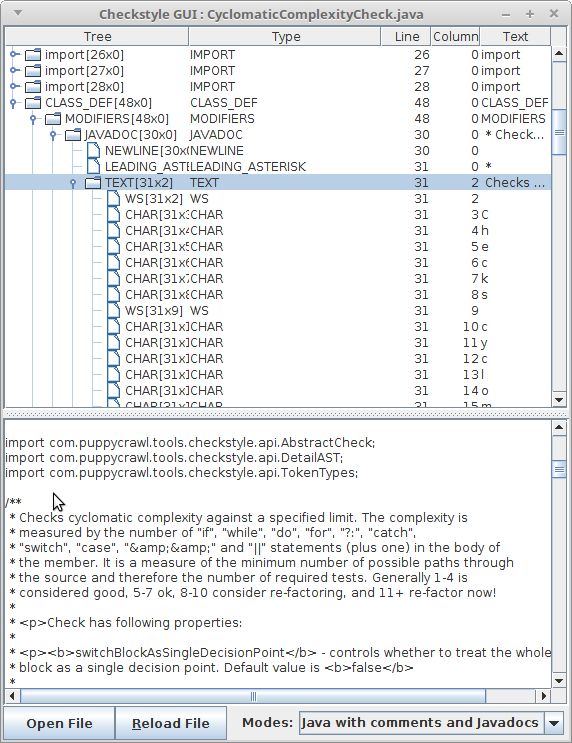
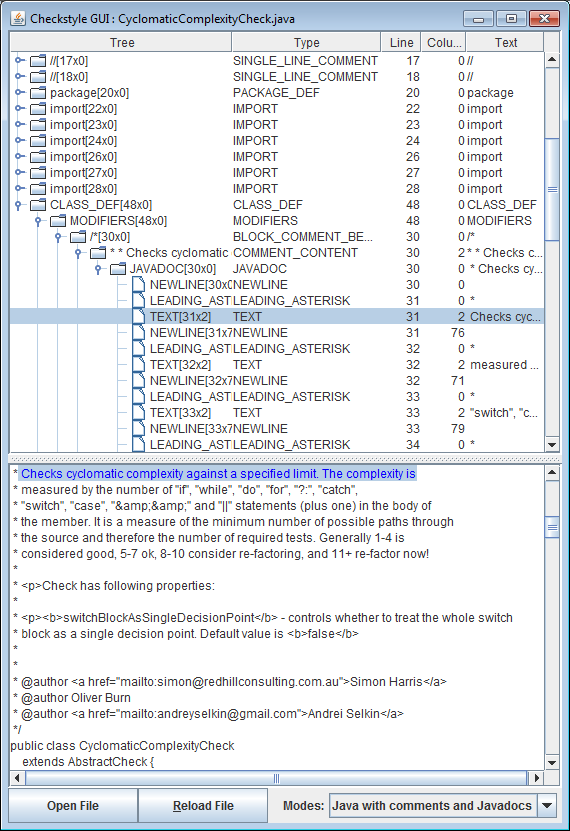
Issue #3170: delete children from javadoc TEXT

diff --git a/src/main/java/com/puppycrawl/tools/checkstyle/checks/javadoc/JavadocParagraphCheck.java b/src/main/java/com/puppycrawl/tools/checkstyle/checks/javadoc/JavadocParagraphCheck.java
@@ -151,7 +151,8 @@ public class JavadocParagraphCheck extends AbstractJavadocCheck {
      */
     private void checkEmptyLine(DetailNode newline) {
         final DetailNode nearestToken = getNearestNode(newline);
-        if (!isLastEmptyLine(newline) && nearestToken.getChildren().length > 1) {
+        if (!isLastEmptyLine(newline) && nearestToken.getType() == JavadocTokenTypes.TEXT
+                && !nearestToken.getText().trim().isEmpty()) {
             log(newline.getLineNumber(), MSG_TAG_AFTER);
         }
     }
@@ -199,7 +200,7 @@ public class JavadocParagraphCheck extends AbstractJavadocCheck {
             return false;
         }
         if (previousSibling.getType() == JavadocTokenTypes.TEXT
-                && previousSibling.getChildren().length == 1) {
+                && previousSibling.getText().trim().isEmpty()) {
             previousSibling = JavadocUtils.getPreviousSibling(previousSibling);
         }
         return previousSibling != null
@@ -215,7 +216,7 @@ public class JavadocParagraphCheck extends AbstractJavadocCheck {
         DetailNode previousNode = JavadocUtils.getPreviousSibling(paragraphTag);
         while (previousNode != null) {
             if (previousNode.getType() == JavadocTokenTypes.TEXT
-                    && previousNode.getChildren().length > 1
+                    && !previousNode.getText().trim().isEmpty()
                 || previousNode.getType() != JavadocTokenTypes.LEADING_ASTERISK
                     && previousNode.getType() != JavadocTokenTypes.NEWLINE
                     && previousNode.getType() != JavadocTokenTypes.TEXT) {
@@ -252,7 +253,7 @@ public class JavadocParagraphCheck extends AbstractJavadocCheck {
         DetailNode nextNode = JavadocUtils.getNextSibling(newLine);
         while (nextNode != null && nextNode.getType() != JavadocTokenTypes.JAVADOC_TAG) {
             if (nextNode.getType() == JavadocTokenTypes.TEXT
-                    && nextNode.getChildren().length > 1
+                    && !nextNode.getText().trim().isEmpty()
                     || nextNode.getType() == JavadocTokenTypes.HTML_ELEMENT) {
                 return false;
             }

diff --git a/src/main/java/com/puppycrawl/tools/checkstyle/checks/javadoc/SummaryJavadocCheck.java b/src/main/java/com/puppycrawl/tools/checkstyle/checks/javadoc/SummaryJavadocCheck.java
@@ -26,7 +26,6 @@ import com.puppycrawl.tools.checkstyle.api.DetailNode;
 import com.puppycrawl.tools.checkstyle.api.JavadocTokenTypes;
 import com.puppycrawl.tools.checkstyle.api.TokenTypes;
 import com.puppycrawl.tools.checkstyle.utils.CommonUtils;
-import com.puppycrawl.tools.checkstyle.utils.JavadocUtils;
 
 /**
  * <p>
@@ -157,30 +156,15 @@ public class SummaryJavadocCheck extends AbstractJavadocCheck {
         final StringBuilder result = new StringBuilder();
         final String periodSuffix = PERIOD + ' ';
         for (DetailNode child : ast.getChildren()) {
+            final String text = child.getText();
+
             if (child.getType() != JavadocTokenTypes.JAVADOC_INLINE_TAG
-                && child.getText().contains(periodSuffix)) {
-                result.append(getCharsTillDot(child));
+                && text.contains(periodSuffix)) {
+                result.append(text.substring(0, text.indexOf(periodSuffix) + 1));
                 break;
             }
             else {
-                result.append(child.getText());
-            }
-        }
-        return result.toString();
-    }
-
-    /**
-     * Finds and returns chars till first dot.
-     * @param textNode node with javadoc text.
-     * @return String with chars till first dot.
-     */
-    private static String getCharsTillDot(DetailNode textNode) {
-        final StringBuilder result = new StringBuilder();
-        for (DetailNode child : textNode.getChildren()) {
-            result.append(child.getText());
-            if (PERIOD.equals(child.getText())
-                && JavadocUtils.getNextSibling(child).getType() == JavadocTokenTypes.WS) {
-                break;
+                result.append(text);
             }
         }
         return result.toString();

diff --git a/src/main/java/com/puppycrawl/tools/checkstyle/checks/javadoc/JavadocTagContinuationIndentationCheck.java b/src/main/java/com/puppycrawl/tools/checkstyle/checks/javadoc/JavadocTagContinuationIndentationCheck.java
@@ -94,10 +94,11 @@ public class JavadocTagContinuationIndentationCheck extends AbstractJavadocCheck
             for (DetailNode newlineNode : textNodes) {
                 final DetailNode textNode = JavadocUtils.getNextSibling(JavadocUtils
                         .getNextSibling(newlineNode));
-                if (textNode != null && textNode.getType() == JavadocTokenTypes.TEXT
-                        && textNode.getChildren().length > 1) {
-                    final DetailNode whitespace = JavadocUtils.getFirstChild(textNode);
-                    if (whitespace.getText().length() - 1 < offset) {
+                if (textNode != null && textNode.getType() == JavadocTokenTypes.TEXT) {
+                    final String text = textNode.getText();
+                    if (!text.trim().isEmpty()
+                            && (text.length() <= offset
+                                    || !text.substring(1, offset + 1).trim().isEmpty())) {
                         log(textNode.getLineNumber(), MSG_KEY, offset);
                     }
                 }

diff --git a/src/main/java/com/puppycrawl/tools/checkstyle/JavadocDetailNodeParser.java b/src/main/java/com/puppycrawl/tools/checkstyle/JavadocDetailNodeParser.java
@@ -34,6 +34,7 @@ import org.antlr.v4.runtime.tree.TerminalNode;
 import com.google.common.base.CaseFormat;
 import com.puppycrawl.tools.checkstyle.api.DetailAST;
 import com.puppycrawl.tools.checkstyle.api.DetailNode;
+import com.puppycrawl.tools.checkstyle.api.JavadocTokenTypes;
 import com.puppycrawl.tools.checkstyle.checks.javadoc.JavadocNodeImpl;
 import com.puppycrawl.tools.checkstyle.grammars.javadoc.JavadocLexer;
 import com.puppycrawl.tools.checkstyle.grammars.javadoc.JavadocParser;
@@ -181,6 +182,12 @@ public class JavadocDetailNodeParser {
         ParseTree parseTreeParent = parseTreeNode;
 
         while (currentJavadocParent != null) {
+            // remove unnecessary children tokens
+            if (currentJavadocParent.getType() == JavadocTokenTypes.TEXT) {
+                currentJavadocParent
+                        .setChildren((DetailNode[]) JavadocNodeImpl.EMPTY_DETAIL_NODE_ARRAY);
+            }
+
             final JavadocNodeImpl[] children =
                     (JavadocNodeImpl[]) currentJavadocParent.getChildren();
 

diff --git a/src/test/java/com/puppycrawl/tools/checkstyle/gui/CodeSelectorPModelTest.java b/src/test/java/com/puppycrawl/tools/checkstyle/gui/CodeSelectorPModelTest.java
@@ -108,13 +108,13 @@ public class CodeSelectorPModelTest {
 
     @Test
     public void testDetailNodeLeafSelection() {
-        final DetailNode javadocLeaf = ((DetailNode) model.getParseTreeTableModel()
-                .getChild(tree.getFirstChild().getNextSibling().getFirstChild(), 0))
-                .getChildren()[2].getChildren()[0];
+        final DetailNode javadoc = (DetailNode) model.getParseTreeTableModel()
+                .getChild(tree.getFirstChild().getNextSibling().getFirstChild(), 0);
+        final DetailNode javadocLeaf = javadoc.getChildren()[2];
         final CodeSelectorPModel selector = new CodeSelectorPModel(javadocLeaf, linesToPosition);
         selector.findSelectionPositions();
         Assert.assertEquals(5, selector.getSelectionStart());
-        Assert.assertEquals(6, selector.getSelectionEnd());
+        Assert.assertEquals(19, selector.getSelectionEnd());
     }
 
 }

diff --git a/src/test/java/com/puppycrawl/tools/checkstyle/checks/javadoc/JavadocTagContinuationIndentationCheckTest.java b/src/test/java/com/puppycrawl/tools/checkstyle/checks/javadoc/JavadocTagContinuationIndentationCheckTest.java
@@ -73,6 +73,7 @@ public class JavadocTagContinuationIndentationCheckTest
             "290: " + getCheckMessage(MSG_KEY, 4),
             "310: " + getCheckMessage(MSG_KEY, 4),
             "322: " + getCheckMessage(MSG_KEY, 4),
+            "324: " + getCheckMessage(MSG_KEY, 4),
         };
         verify(checkConfig, getPath("InputJavaDocTagContinuationIndentation.java"),
                 expected);

diff --git a/src/main/java/com/puppycrawl/tools/checkstyle/checks/javadoc/JavadocNodeImpl.java b/src/main/java/com/puppycrawl/tools/checkstyle/checks/javadoc/JavadocNodeImpl.java
@@ -35,7 +35,7 @@ public class JavadocNodeImpl implements DetailNode {
     /**
      * Empty array of {@link DetailNode} type.
      */
-    private static final DetailNode[] EMPTY_DETAIL_NODE_ARRAY = new DetailNode[0];
+    public static final JavadocNodeImpl[] EMPTY_DETAIL_NODE_ARRAY = new JavadocNodeImpl[0];
 
     /**
      * Node index among parent's children.

diff --git a/src/test/resources/com/puppycrawl/tools/checkstyle/checks/javadoc/InputCorrectJavaDocParagraph.java b/src/test/resources/com/puppycrawl/tools/checkstyle/checks/javadoc/InputCorrectJavaDocParagraph.java
@@ -36,6 +36,19 @@ class InputCorrectJavaDocParagraph {
     
     /**
      * Some Javadoc.
+     * 
+     *<pre>
+     * Test
+     * </pre>
+     * 
+     * <pre>
+     * Test
+     * </pre>
+     */
+    boolean test() {return false;}
+    
+    /**
+     * Some Javadoc.
      *
      * <p>Some Javadoc.
      *

diff --git a/src/test/java/com/puppycrawl/tools/checkstyle/checks/javadoc/AbstractJavadocCheckTest.java b/src/test/java/com/puppycrawl/tools/checkstyle/checks/javadoc/AbstractJavadocCheckTest.java
@@ -336,7 +336,7 @@ public class AbstractJavadocCheckTest extends BaseCheckTestSupport {
 
         @Override
         public int[] getRequiredJavadocTokens() {
-            return new int[] {JavadocTokenTypes.CHAR};
+            return new int[] {JavadocTokenTypes.TEXT};
         }
 
         @Override

diff --git a/src/test/resources/com/puppycrawl/tools/checkstyle/checks/javadoc/InputJavaDocTagContinuationIndentation.java b/src/test/resources/com/puppycrawl/tools/checkstyle/checks/javadoc/InputJavaDocTagContinuationIndentation.java
@@ -320,6 +320,8 @@ enum Foo1 {}
  *     Some javadoc.
  * @serialData Some javadoc.
  *   Line below is empty on purpose. // warn
+ * @see Some Text.
+ * L.
  *
  * @author max
  * @see {@link com.puppycrawl.tools.checkstyle.AllChecksPresentOnAvailableChecksPageTest

diff --git a/src/main/java/com/puppycrawl/tools/checkstyle/api/TokenTypes.java b/src/main/java/com/puppycrawl/tools/checkstyle/api/TokenTypes.java
@@ -3399,7 +3399,7 @@ public final class TokenTypes {
     /**
      * Text of single-line or block comment.
      *
-     *<pre>
+     * <pre>
      * +--SINGLE_LINE_COMMENT
      *         |
      *         +--COMMENT_CONTENT
